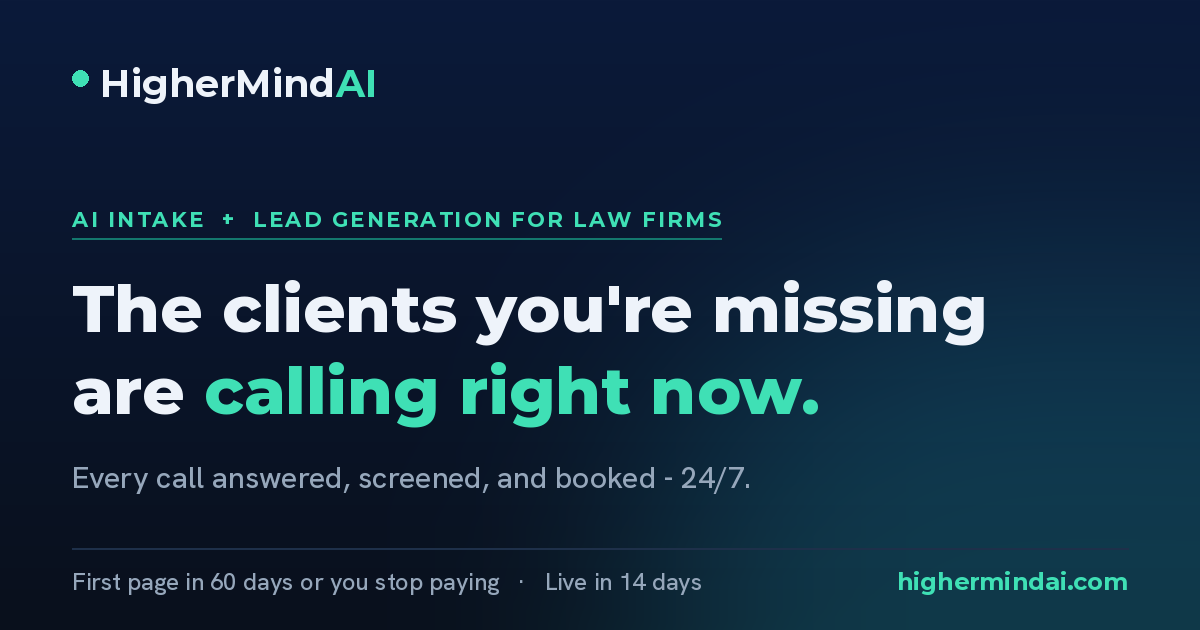
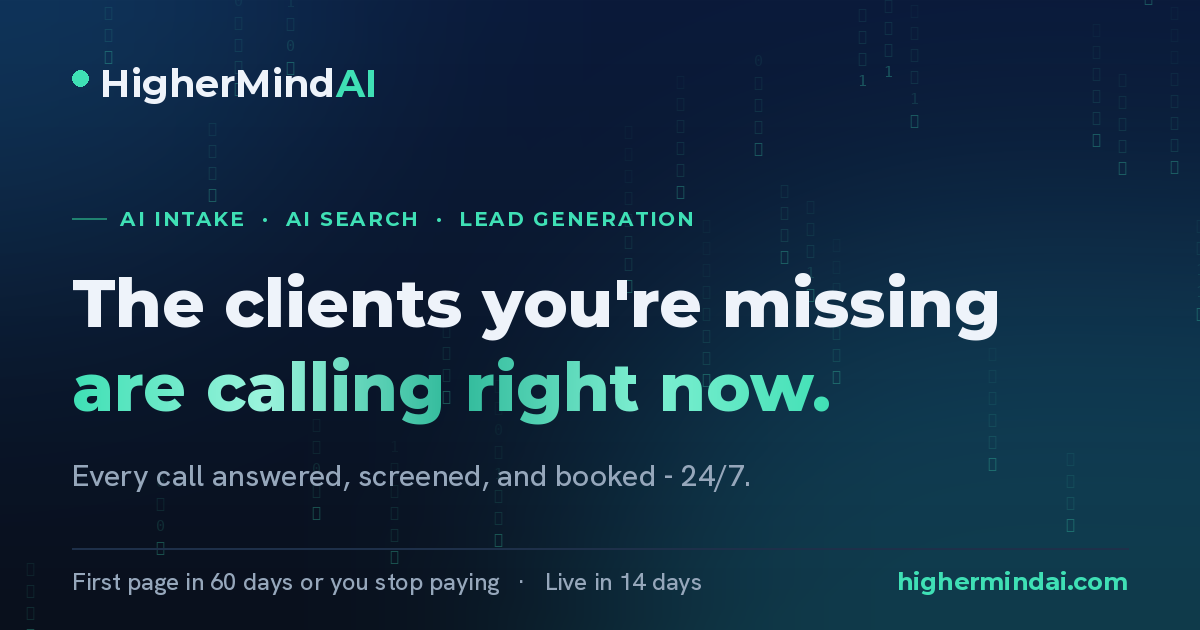
Liquid Light share card + sharper rain
Liquid Light share card + sharper rain

diff --git a/src/components/DigitalRain.tsx b/src/components/DigitalRain.tsx
@@ -28,7 +28,7 @@ export default function DigitalRain({ fixed = false }: { fixed?: boolean }) {
     const resize = () => {
       cv.width = cv.offsetWidth;
       cv.height = cv.offsetHeight;
-      const cols = Math.max(8, Math.floor(cv.width / (fixed ? 26 : CELL)));
+      const cols = Math.max(8, Math.floor(cv.width / (fixed ? 23 : CELL)));
       drops = Array.from({ length: cols }, () => Math.random() * -cv.height);
       speeds = Array.from({ length: cols }, () => 0.35 + Math.random() * 0.55);
     };
@@ -54,8 +54,8 @@ export default function DigitalRain({ fixed = false }: { fixed?: boolean }) {
           if (y < -CELL || y > cv.height + CELL) continue;
           cx.fillStyle =
             k === 0
-              ? 'rgba(63,224,181,.38)'
-              : `rgba(63,224,181,${0.13 - k * 0.02})`;
+              ? 'rgba(63,224,181,.52)'
+              : `rgba(63,224,181,${0.18 - k * 0.024})`;
           cx.fillText(GLYPHS[Math.floor((i * 7 + k * 3 + t / 900) % GLYPHS.length)], x, y);
         }
         drops[i] += speeds[i] * CELL * 0.45;

diff --git a/src/index.css b/src/index.css
@@ -836,7 +836,7 @@ h3{font-size:20.5px;letter-spacing:-.02em;line-height:1.25}
    aware, all a few kilobytes. */
 
 .deep{position:fixed;inset:0;z-index:0;pointer-events:none}
-.rain-fixed{position:fixed;inset:0;opacity:.22;
+.rain-fixed{position:fixed;inset:0;opacity:.34;
   -webkit-mask-image:linear-gradient(to bottom,transparent,#000 7%);
   mask-image:linear-gradient(to bottom,transparent,#000 7%)}
 .caustic{position:absolute;width:52vw;height:52vw;border-radius:50%;